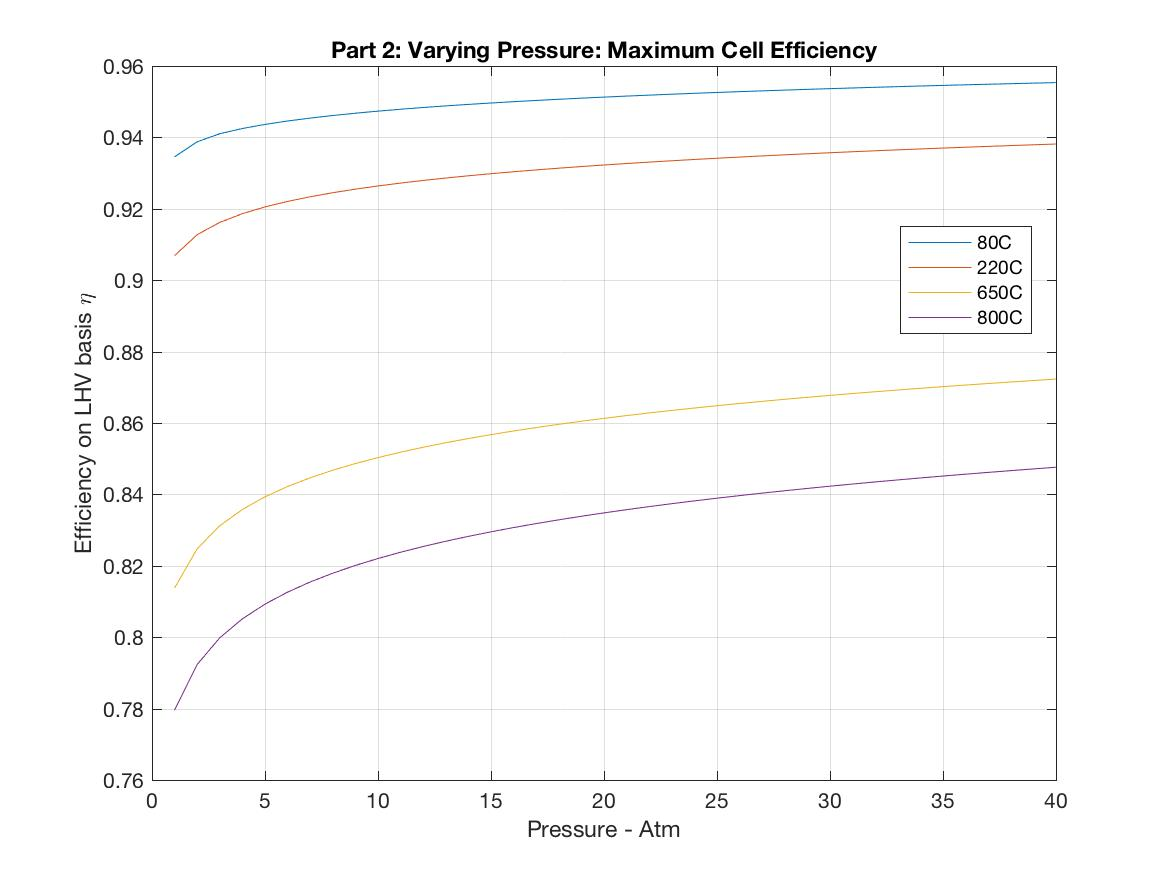
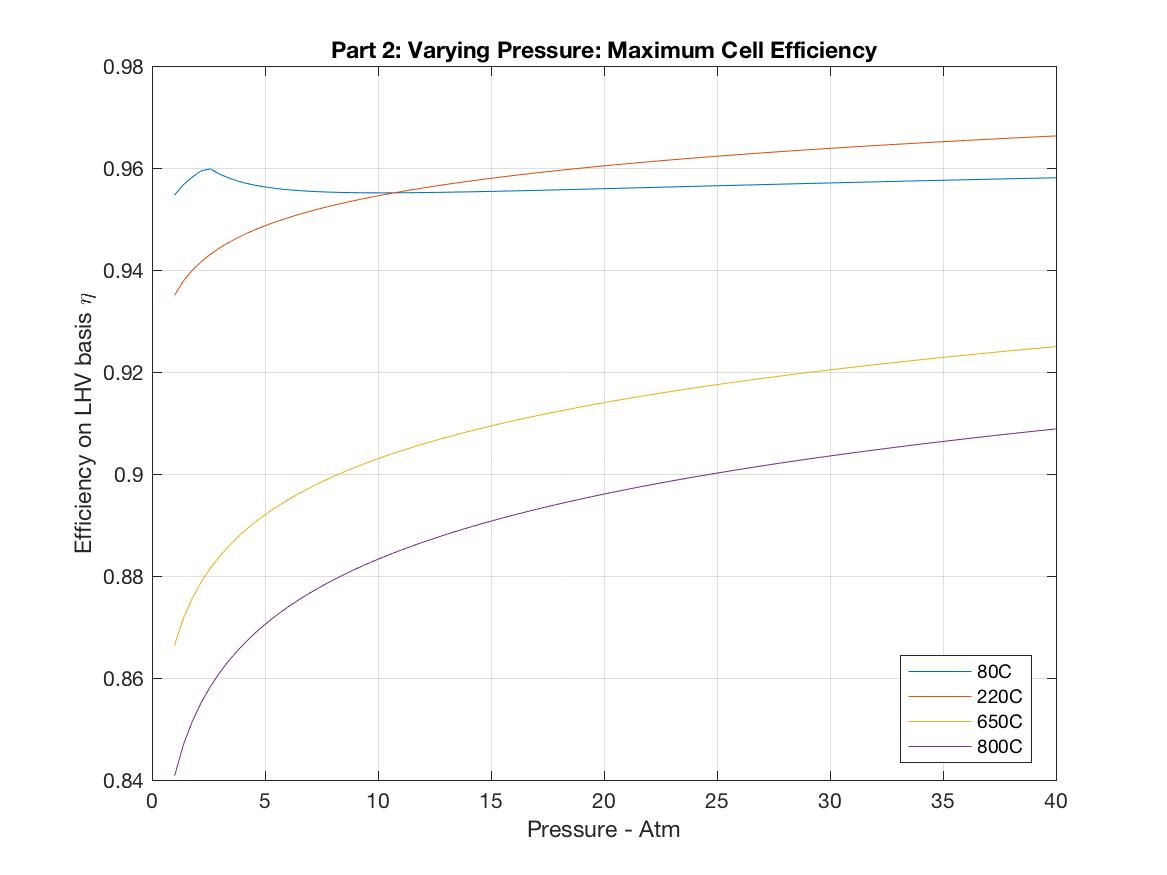
fixed plot4 post frankies edits

diff --git a/me140_project4/PEMstoich.m b/me140_project4/PEMstoich.m
@@ -63,9 +63,9 @@ y_n2_prod = mol_n2      ./ mol_total_prod;
 greact = gEng(T,Ptotal,'h2',mol_h2) ...
     + gEng(T,Ptotal .* y_o2_react,'o2',mol_o2_react) ...
     + gEng(T,Ptotal .* y_n2_react,'n2',mol_n2);
-%if(alpha ~= 0 )
-    greact = greact + gEng(T,Ptotal*y_h2ovap,'h2ovap',alpha); %greact = greact + gEng(T,Ptotal .* y_h2o_react,'h2ovap',alpha);
-%end
+if(alpha ~= 0 )
+    greact = greact + gEng(T,Ptotal*y_h2o_react,'h2ovap',alpha); %greact = greact + gEng(T,Ptotal .* y_h2o_react,'h2ovap',alpha);
+end
 
 gprod = ...
       gEng(T, Ptotal*y_h2ovap,    'h2ovap', mol_h2ovap)... %% THIS IS OFFENDING LINE IN PART 2

diff --git a/me140_project4/me140_project4.m b/me140_project4/me140_project4.m
@@ -223,7 +223,7 @@ title({'Part 4: Maximum First Law Efficiency as a Function of Temperature',' for
 plotfixer;
 grid on;
 saveas(f,'../plots/Plot4','jpeg');
-return
+
 me140_project4_part2_pressures; %correct pressure plot from this file
 
 
